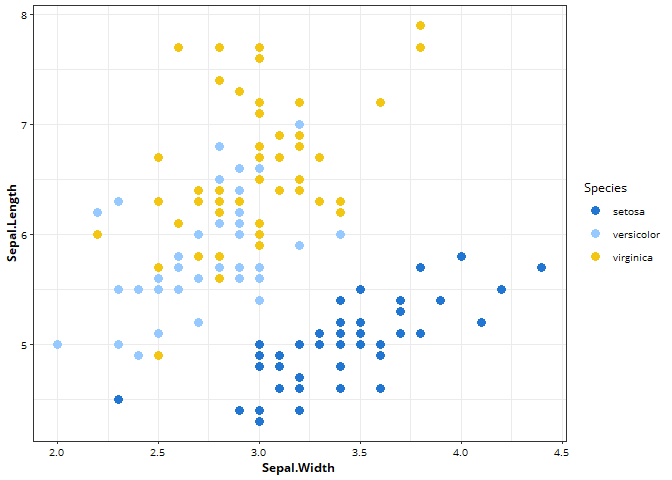
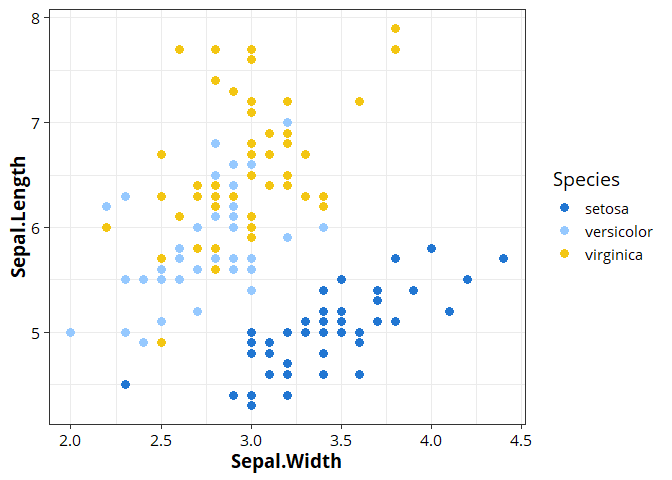
update figure size

diff --git a/README.md b/README.md
@@ -48,7 +48,7 @@ library(ggplot2)
 ggplot(iris, aes(Sepal.Width, Sepal.Length, color = Species)) +
   geom_point(size = 3) +
   scale_color_phl() +
-  theme_phl()
+  theme_phl(base_size = 14)
 ```
 
-<img src="man/figures/README-example-1.png" width="100%" />
+<img src="man/figures/README-example-1.png" style="display: block; margin: auto;" />
